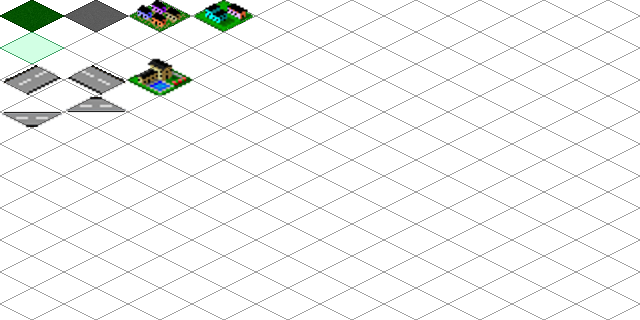
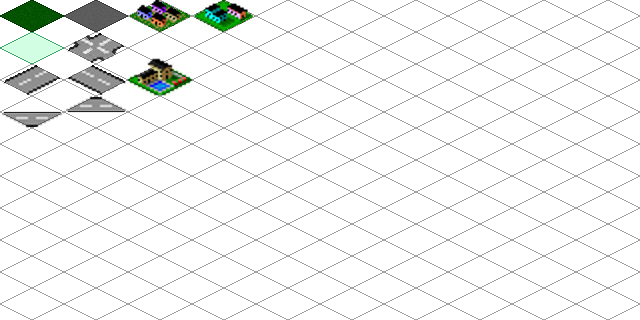
Create Road Network tree Display the network on map

Changed region(s): [[0.0938, 0.0938, 0.1875, 0.2188]]

diff --git a/game/CityEngine.cpp b/game/CityEngine.cpp
@@ -5,44 +5,93 @@
 using namespace std;
 
 CityEngine::CityEngine(EngineInterface *_renderer) : renderer(_renderer) {
-	initValues();
-	initMaps();
-
 	net = make_shared<Net>(15817);
+	
+	center.x = 6, center.y = 6;
+
+	roadNetwork = make_shared<City::RoadNetwork>(center);
 
 	speed = 1000.0f;
 	counter = speed;
+
+	initValues();
+	initMaps();
 }
 
 void CityEngine::update(float dt) {
-	counter -= dt;
-
-	if (counter <= 0)
-		sValues["days"]++, counter = speed;
+	
 }
 
 void CityEngine::initMaps() {
 	map_ground	= make_shared<City::CityMap<City::Tile>>(13, 13);
-	map_build	= make_shared<City::CityMap<City::Building>>(13, 13);
+	map_build	= make_shared<City::CityMap<City::Tile>>(13, 13);
 
 	for (int y = 0; y < map_ground->getH(); y++) {
 		for (int x = 0; x < map_ground->getW(); x++) {
-			setTile(x, y, "grass");
+			setTile(x, y, "grass", 0);
 		}
 	}
+
+	City::RoadNetwork::RoadNode node0 = roadNetwork->addRoad(roadNetwork->getRoot(), City::Coord<int>(6, 10));
+	City::RoadNetwork::RoadNode node1 = roadNetwork->addRoad(roadNetwork->getRoot(), City::Coord<int>(10, 6));
+	City::RoadNetwork::RoadNode node2 = roadNetwork->addRoad(roadNetwork->getRoot(), City::Coord<int>(2, 6));
+	City::RoadNetwork::RoadNode node3 = roadNetwork->addRoad(roadNetwork->getRoot(), City::Coord<int>(6, 2));
+
+	updateRoadNetwork(roadNetwork->getRoot(), nullptr);
 }
 
-void CityEngine::setTile(int x, int y, string tile) {
-	map_ground->set(x, y, std::make_shared<City::Tile>(tile));
-	renderer->setTile(City::Coord<int>(x, y), tile, EngineInterface::Ground);
+void CityEngine::expandRoads() {
+
+}
+
+void CityEngine::updateRoadNetwork(City::RoadNetwork::RoadNode node, City::RoadNetwork::RoadNode prev) {
+	unsigned children = node->children.size();
+	cout << node->n << ": lvl " << node->level << " (" << children << " children)\n";
+
+	if (prev == nullptr) {
+		if(children > 0)
+			setTile(node->pos.x, node->pos.y, "road_c", 1);
+		else
+			setTile(node->pos.x, node->pos.y, "pavement", 1);
+	}
+	
+	if (prev != nullptr) {
+		setTile(node->pos.x, node->pos.y, "road_c", 1);
+
+		auto diff = prev->pos - node->pos;
+		int dist  = sqrt(diff.x * diff.x + diff.y * diff.y);
+		bool vert;
+		int dir;
+
+		if(diff.x == 0) {
+			vert = true;
+			dir = (diff.y < 0) ? 1 : -1;
+		} else {
+			vert = false;
+			dir = (diff.x < 0) ? 1 : -1;
+		}
+
+		for (int i = 1; i < dist; i++) {
+			if (vert)
+				setTile(prev->pos.x, prev->pos.y + (i * dir), "road_v", 1);
+			else
+				setTile(prev->pos.x + (i * dir), prev->pos.y, "road_h", 1);
+		}
+	}
+
+	for (unsigned i = 0; i < node->children.size(); i++)
+		updateRoadNetwork(node->children[i], node);
+}
+
+void CityEngine::setTile(int x, int y, string tile, int layer) {
+	if(layer == 0)
+		map_ground->set(x, y, std::make_shared<City::Tile>(tile));
+	else
+		map_build->set(x, y, std::make_shared<City::Tile>(tile));
+
+	renderer->setTile(City::Coord<int>(x, y), tile, layer);
 }
 
 void CityEngine::initValues() {
 	pop = 1;
-
-	sValues["year"]		= 2017;
-	sValues["days"]		= 0;
-	sValues["balance"]	= 100'000;
-
-	dValues["demand_res"] = 1;
 }

diff --git a/game/EngineInterface.hpp b/game/EngineInterface.hpp
@@ -11,7 +11,9 @@ namespace City {
 		Coord(const Coord<T> &copy) { x = copy.x; y = copy.y; }
 
 		inline void operator+=(Coord<T> n) { x += n.x; y += n.y; }
+		inline void operator-=(Coord<T> n) { x -= n.x; y -= n.y; }
 		inline Coord<T> operator+(Coord<T> n) { return Coord<T>(x + n.x, y + n.y); }
+		inline Coord<T> operator-(Coord<T> n) { return Coord<T>(x - n.x, y - n.y); }
 	};
 
 	struct Zone {
@@ -28,38 +30,6 @@ namespace City {
 
 		private:
 			std::string tile;
-	};
-
-	class Building {
-		public:
-			double getTax(double tax) { return profit * tax; }
-
-		protected:
-			double profit;
-	};
-
-	class CommerceBuilding : public Building {
-		public:
-			CommerceBuilding() {}
-
-		private:
-
-	};
-
-	class IndBuilding : public Building {
-		public:
-			IndBuilding() {}
-
-		private:
-
-	};
-
-	class ResBuilding : public Building {
-		public:
-			ResBuilding() {}
-
-		private:
-
 	};
 
 	template <class T> class CityMap {
@@ -94,6 +64,36 @@ namespace City {
 			int w, h;
 
 			std::vector<std::vector<std::shared_ptr<T>>> data;
+	};
+
+	class RoadNetwork {
+		public:
+			struct Node {
+				int n, level;
+				Coord<int> pos;
+
+				std::vector<std::shared_ptr<Node>> children;
+
+				Node(Coord<int> _pos, int _n, int _level) { pos = _pos; n = _n, level = _level; }
+			};
+
+			typedef std::shared_ptr<Node> RoadNode;
+
+			RoadNetwork(Coord<int> initial_pos) : counter(0) {
+				root = std::make_shared<Node>(initial_pos, 0, 0);
+			}
+
+			RoadNode addRoad(RoadNode node, Coord<int> pos) {
+				RoadNode road = std::make_shared<Node>(pos, ++counter, node->level + 1);
+				node->children.push_back(road);
+				return road;
+			}
+
+			RoadNode getRoot() { return root; }
+
+		private:
+			int counter;
+			RoadNode root;
 	};
 }
 

diff --git a/game/CityEngine.hpp b/game/CityEngine.hpp
@@ -19,21 +19,22 @@ class CityEngine {
 		std::shared_ptr<Net> net;
 
 		long pop;
-
-		std::map<std::string, double> sValues;
-		std::map<std::string, double> dValues;
-
-		std::shared_ptr<City::CityMap<City::Tile>> map_ground;
-		std::shared_ptr<City::CityMap<City::Building>> map_build;
+		float speed, counter;
 
 		enum MapLayers { Ground, Build, Zones };
 
+		std::shared_ptr<City::CityMap<City::Tile>> map_ground;
+		std::shared_ptr<City::CityMap<City::Tile>> map_build;
+
+		City::Coord<int> center;
+		std::shared_ptr<City::RoadNetwork> roadNetwork;
+
 		void initMaps();
 		void initValues();
-
-		float speed, counter;
-
-		void setTile(int x, int y, std::string tile);
+		
+		void expandRoads();
+		void updateRoadNetwork(City::RoadNetwork::RoadNode node, City::RoadNetwork::RoadNode prev);
+		void setTile(int x, int y, std::string tile, int layer = 1);
 
 	public:
 		

diff --git a/game/IsoEngine.cpp b/game/IsoEngine.cpp
@@ -17,6 +17,7 @@ IsoEngine::IsoEngine(const SpriteHandler &_spr, std::shared_ptr<RenderWindow> _a
 	tiles["building2"]  = { sprHandler.create("building2") };
 	tiles["building3"]  = { sprHandler.create("building3") };
 	tiles["zone_res"]	= { sprHandler.create("zone_res") };
+	tiles["road_c"]		= { sprHandler.create("road_c") };
 	tiles["road_v"]		= { sprHandler.create("road_v") };
 	tiles["road_h"]		= { sprHandler.create("road_h") };
 	tiles["road_t"]		= { sprHandler.create("road_t") };

diff --git a/game/SpriteHandler.cpp b/game/SpriteHandler.cpp
@@ -15,6 +15,7 @@ SpriteHandler::SpriteHandler()
 	sprites["building2"]	= main_sheet.get(0, 3, 1);
 	sprites["building3"]	= main_sheet.get(2, 2, 2);
 
+	sprites["road_c"]		= main_sheet.get(1, 1, 1);
 	sprites["road_v"]		= main_sheet.get(2, 0, 1);
 	sprites["road_h"]		= main_sheet.get(2, 1, 1);
 	sprites["road_t"]		= main_sheet.get(3, 0, 1);

diff --git a/game/NonCopyable.hpp b/game/NonCopyable.hpp
@@ -1,0 +1,11 @@
+#pragma once
+
+class Noncopyable {
+	public:
+		Noncopyable() = default;
+		~Noncopyable() = default;
+
+	private:
+		Noncopyable(const Noncopyable&) = delete;
+		Noncopyable& operator=(const Noncopyable&) = delete;
+};
